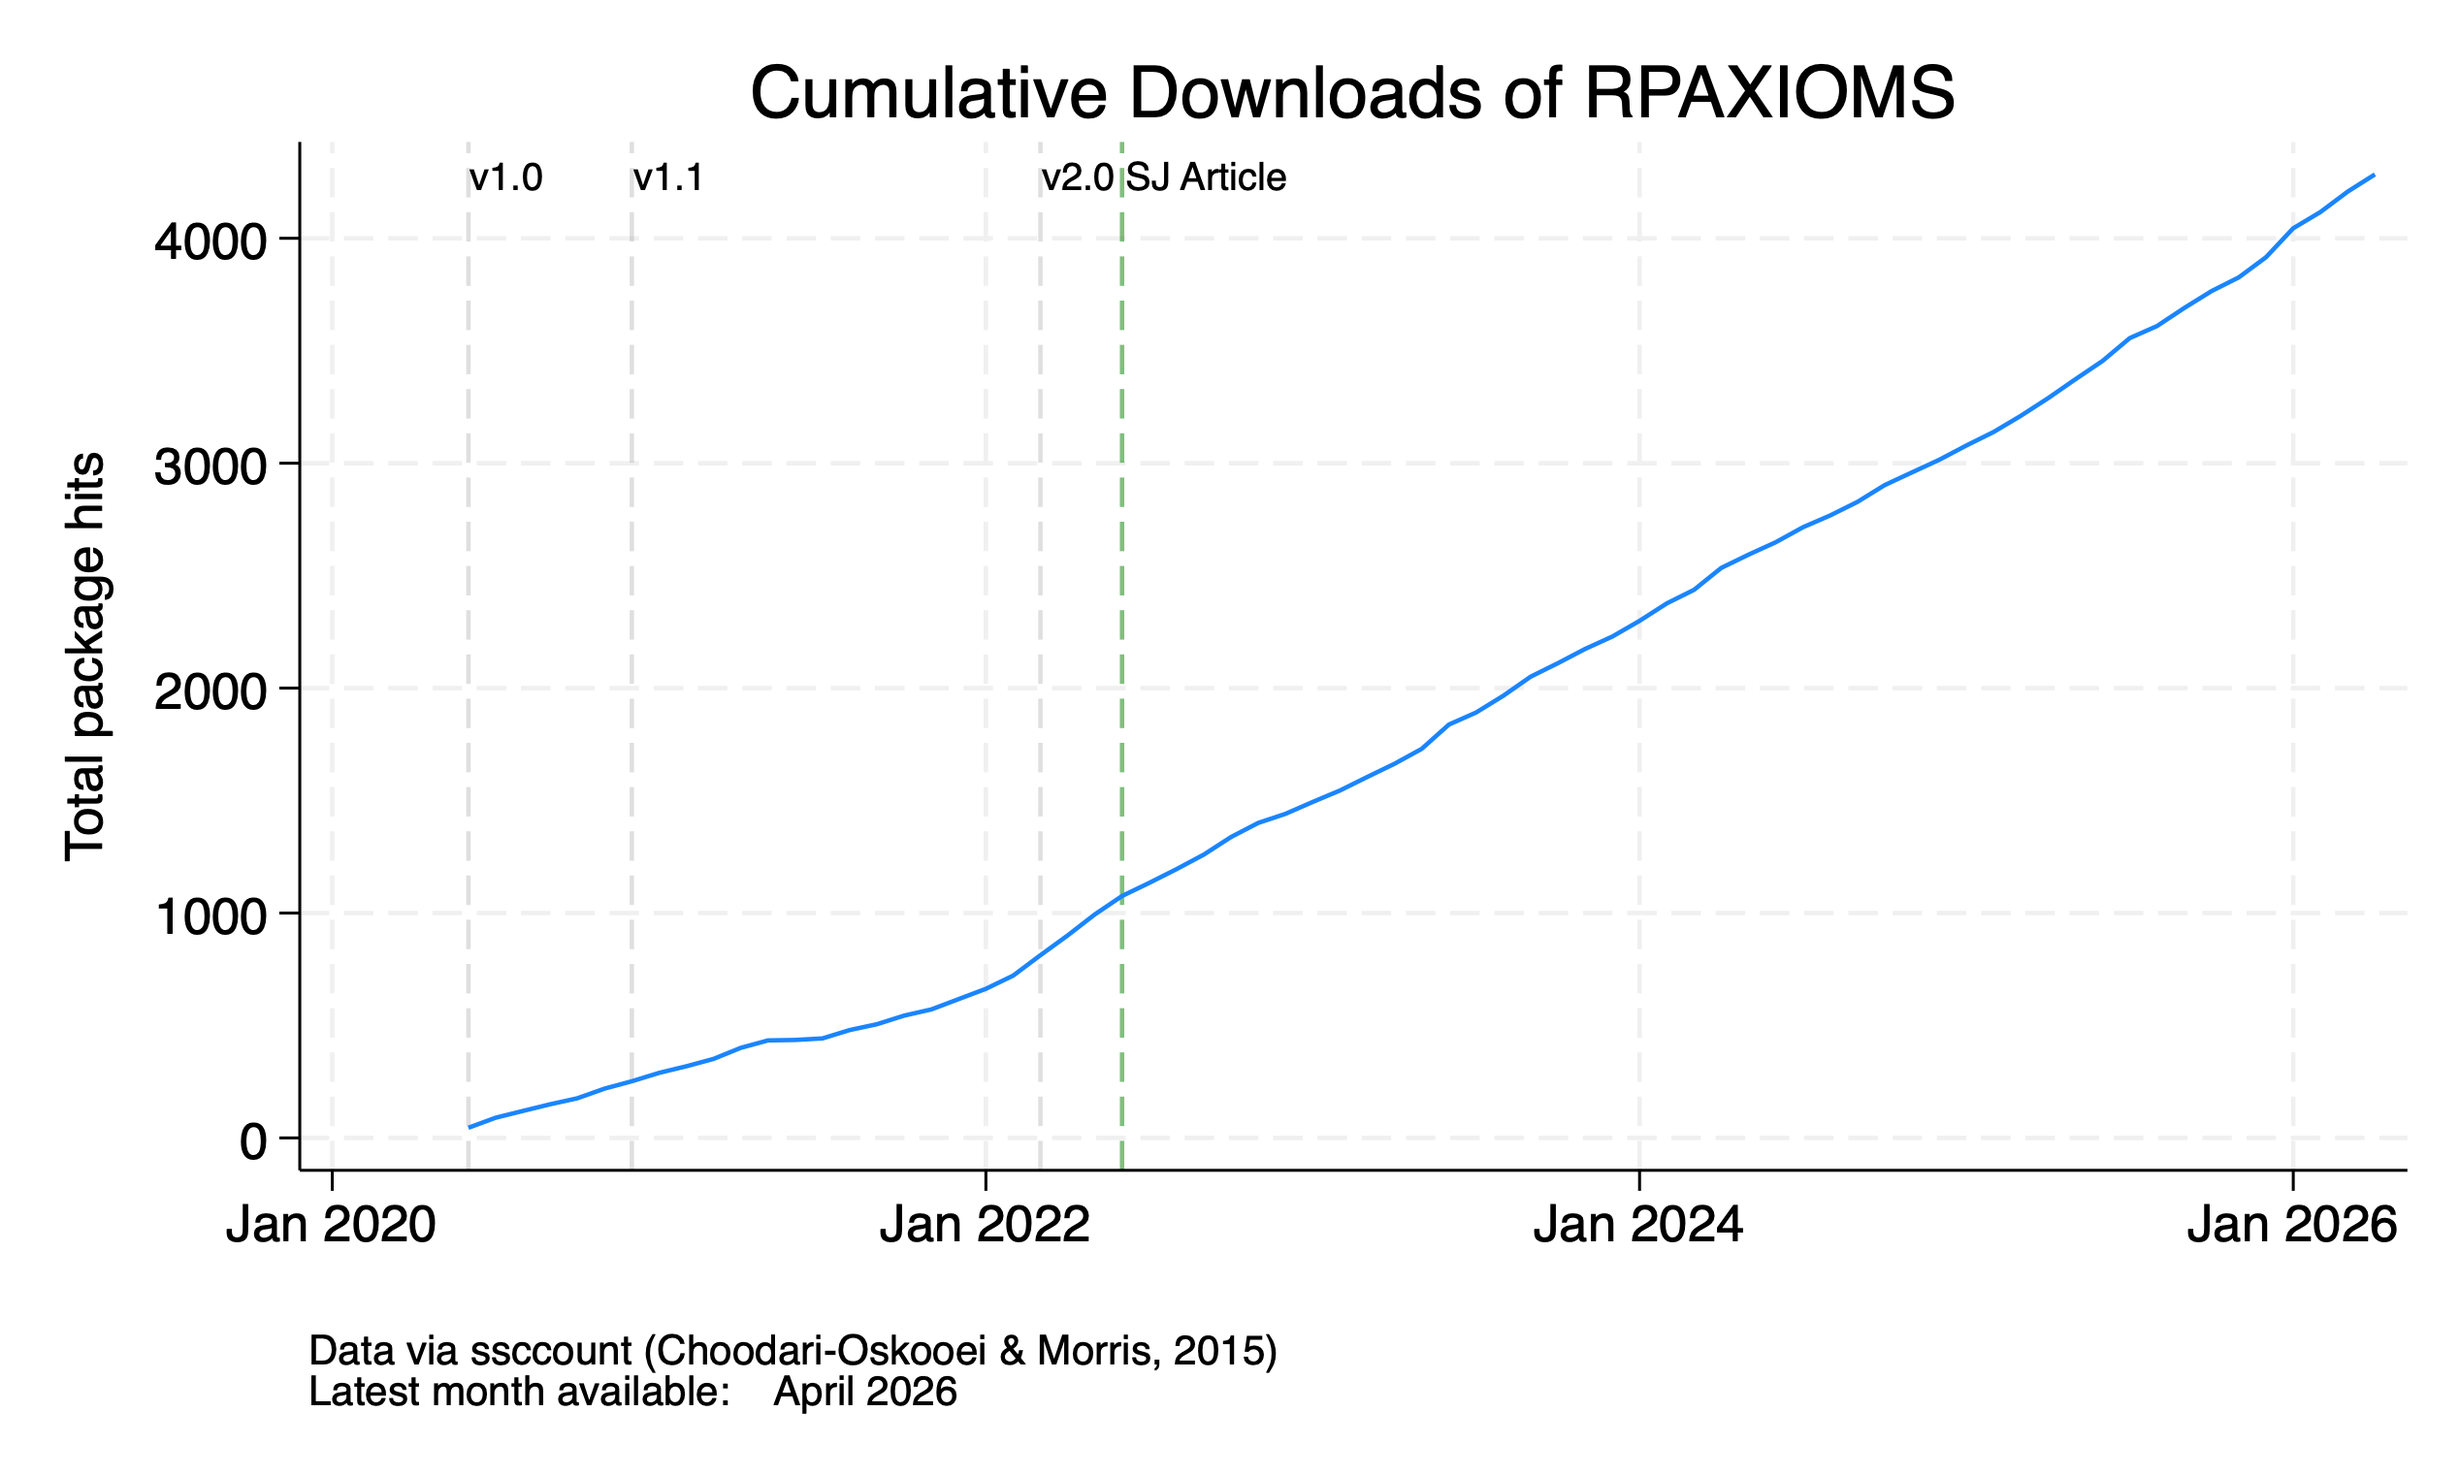
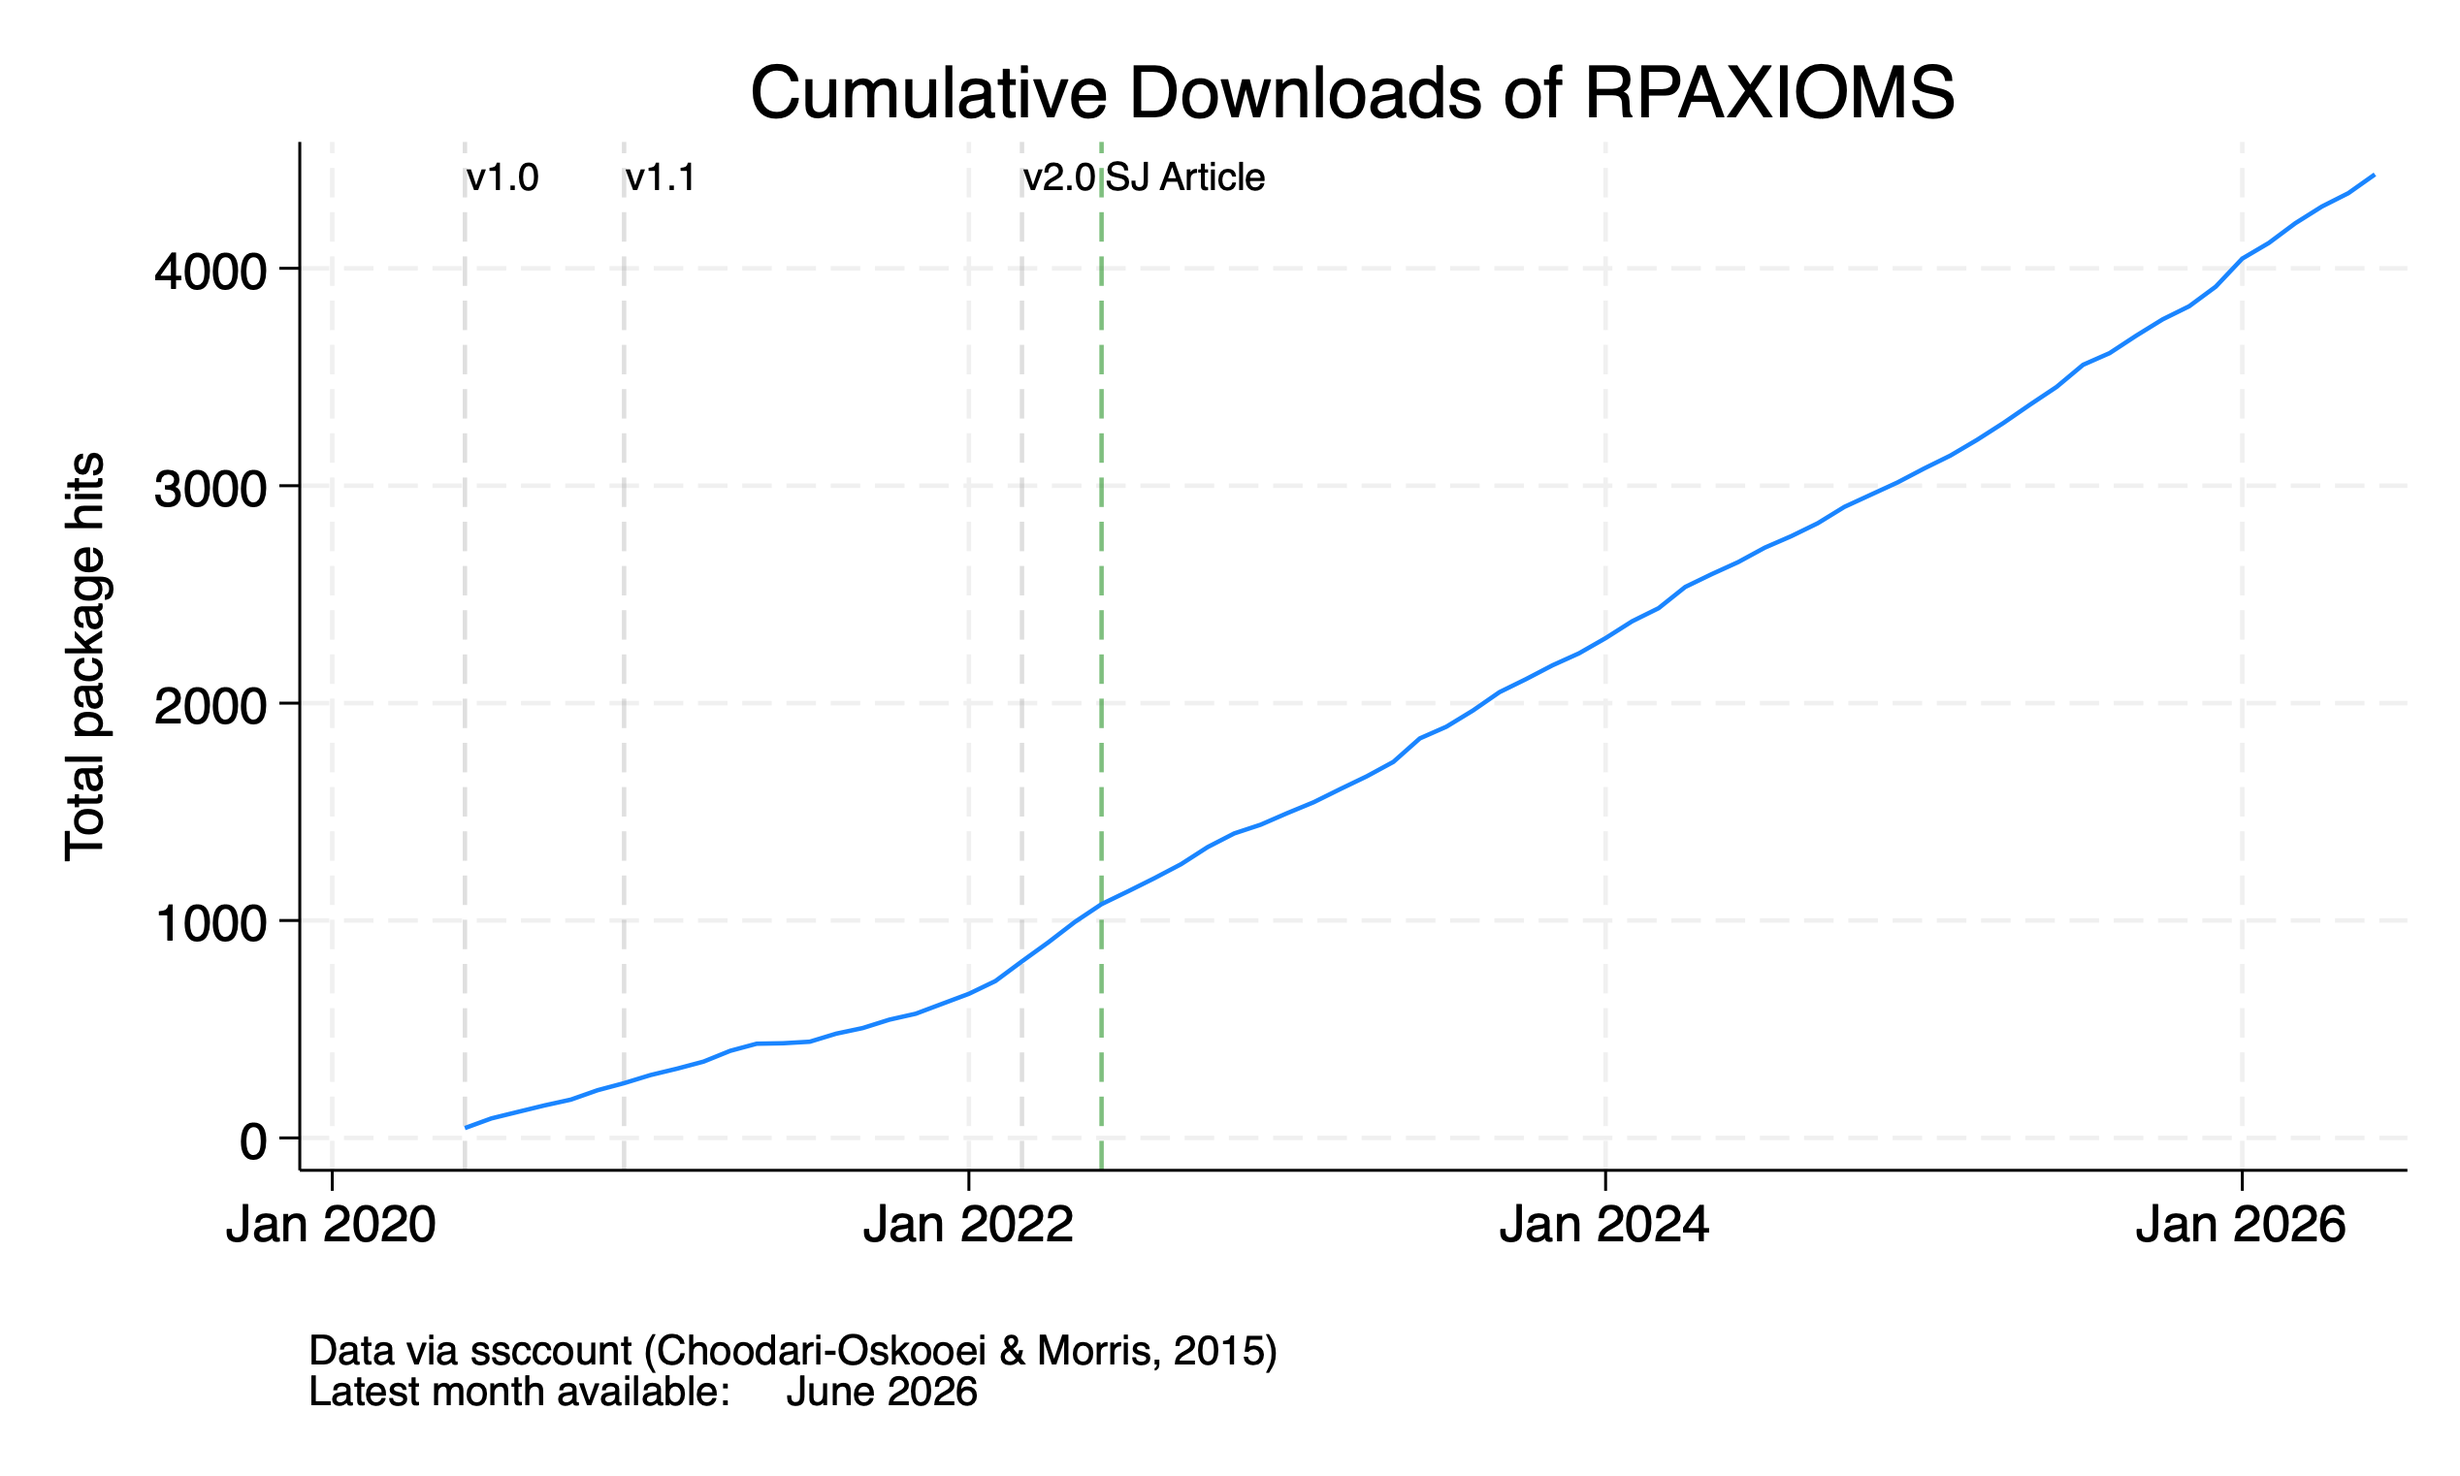
update npkghit

diff --git a/_research/2022-07-01-rpaxioms.md b/_research/2022-07-01-rpaxioms.md
@@ -17,7 +17,7 @@ household-level aggregate consumption data.
 ## Citation
 Demetry, M., Hjertstrand, P. and Polisson, M., 2022. Testing axioms of revealed preference in Stata. <i>The Stata Journal</i>, 22(2), pp.319-343.
 
-## Total downloads: 4,284
+## Total downloads: 4,432
 <img src="/assets/img/research-rpaxioms/rpaxioms_cumulative_hits.png" alt="number of downloads" width="100%"/>
 
 <details>

diff --git a/_research/2022-12-01-hmindex.md b/_research/2022-12-01-hmindex.md
@@ -13,7 +13,7 @@ note introduces the _Stata_ command __hmindex__, which calculates the Houtman-Ma
 prices and observed choices of a consumer. The command is illustrated with an empirical application.
 
 
-## Total downloads: 2,718
+## Total downloads: 2,839
 <img src="/assets/img/research-hmindex/hmindex_cumulative_hits.png" alt="number of downloads" width="100%"/>
 
 
